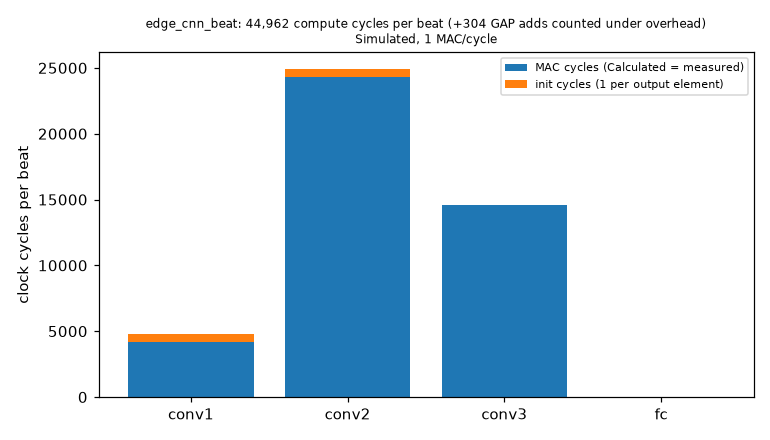
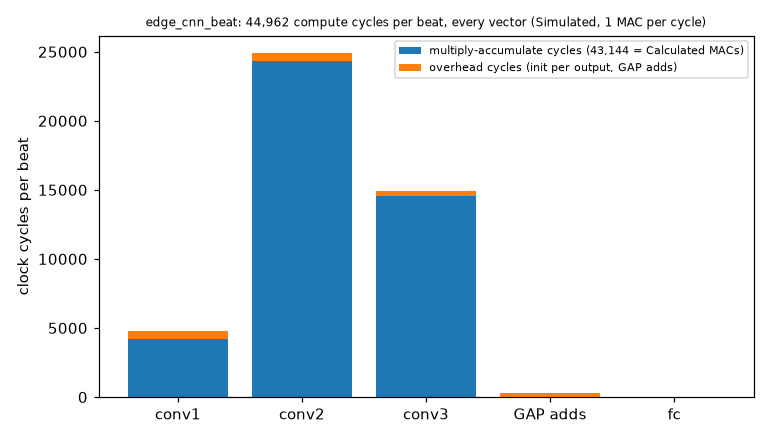
Chore: freeze C5 PTB-XL recipe before training; add C6 pre-window result (round 3)

diff --git a/sentry_sim/py/c6_prelead.py b/sentry_sim/py/c6_prelead.py
@@ -1,0 +1,44 @@
+"""C6: 'an hour before' weak hypothesis test on EDB, frozen fold models, no retraining.  Replayed, HYPOTHESIS ONLY - never a lead-time or prediction claim.
+Pre-window beats: onset-60 min .. onset-15 min of each ST episode, kept only if no other ST/T episode overlaps [onset-60 min, onset].  Comparison: ordinary negatives (label 0)
+of the same test patients that are not in any pre-window.  Statistic = mean over the 5 test folds of per-fold AUROC; subject bootstrap 2000.  -> results/c6_prelead.csv"""
+import os, sys, json
+import numpy as np, pandas as pd
+sys.path.insert(0, os.path.dirname(__file__))
+import c1_lib as C
+META = json.load(open("data/edge/edb_meta.json")); RECS = C.records()
+METHODS = ["R0", "R1", "M1", "M2_s0", "M2_s1", "M2_s2"]
+
+def wauc(sc_pos, w_pos, sc_neg, w_neg):
+    o = np.argsort(sc_neg); sn = sc_neg[o]; cw = np.concatenate([[0], np.cumsum(w_neg[o])]); lo = np.searchsorted(sn, sc_pos, "left"); hi = np.searchsorted(sn, sc_pos, "right")
+    below = cw[lo] + 0.5 * (cw[hi] - cw[lo]); den = w_pos.sum() * w_neg.sum()
+    return (w_pos * below).sum() / den if den > 0 else np.nan
+
+if __name__ == "__main__":
+    S = [dict(np.load(f"data/edge/c2_scores_fold{k}.npz")) for k in range(5)]; pre = []; 
+    subs = sorted({META[r]["subject"] for r in RECS}); sidx = {s: i for i, s in enumerate(subs)}
+    data = []; nep = 0
+    for k, d in enumerate(S):
+        pm = np.zeros(len(d["t"]), bool)
+        for ri in np.unique(d["rec"]):
+            mt = META[RECS[ri]]; allep = [(s, e) for s, e, _ in mt["st"] + mt["tw"]]; sel = d["rec"] == ri
+            for s, e, _ in mt["st"]:
+                if any((e2 >= s - 3600 and s2 <= s and (s2, e2) != (s, e)) for s2, e2 in allep): continue
+                nep += 1; pm |= sel & (d["t"] >= s - 3600) & (d["t"] < s - 900)
+        pm &= d["ok"]; neg = d["ok"] & (d["label"] == 0) & ~pm
+        sid = np.array([sidx[META[RECS[r]]["subject"]] for r in d["rec"]]); data.append((pm, neg, sid, d))
+    npre = sum(int(p.sum()) for p, _, _, _ in data); nneg = sum(int(n.sum()) for _, n, _, _ in data)
+    rng = np.random.default_rng(7); rows = []; B = 2000; W = [rng.multinomial(len(subs), np.ones(len(subs)) / len(subs), size=1)[0] for _ in range(0)]
+    ws = [np.bincount(rng.integers(0, len(subs), len(subs)), minlength=len(subs)).astype(float) for _ in range(B)]
+    for m in METHODS:
+        pt = []; 
+        for pm, neg, sid, d in data:
+            if pm.sum() and neg.sum(): pt.append(wauc(d[m][pm], np.ones(pm.sum()), d[m][neg], np.ones(neg.sum())))
+        bs = []
+        for w in ws:
+            a = []
+            for pm, neg, sid, d in data:
+                if pm.sum() and neg.sum(): a.append(wauc(d[m][pm], w[sid[pm]], d[m][neg], w[sid[neg]]))
+            bs.append(np.nanmean(a))
+        rows.append(dict(method=m, mean_fold_AUROC=float(np.mean(pt)), lo=float(np.nanpercentile(bs, 2.5)), hi=float(np.nanpercentile(bs, 97.5)), per_fold=";".join(f"{x:.3f}" for x in pt),
+                         episodes_used=nep, pre_beats=npre, ordinary_negative_beats=nneg, includes_0p5=bool(np.nanpercentile(bs, 2.5) <= 0.5 <= np.nanpercentile(bs, 97.5)), label="Replayed, hypothesis only"))
+    df = pd.DataFrame(rows); df.to_csv("results/c6_prelead.csv", index=False); print(df.round(3).to_string())

diff --git a/sentry_sim/py/c5_windows.py b/sentry_sim/py/c5_windows.py
@@ -1,0 +1,31 @@
+"""C5: PTB-XL median-beat int8 windows (leads I, II, V2, V5), same window/pre-processing as C1.  Replayed.  python py/c5_windows.py -> data/edge/ptbxl_windows.npz
+10-second resting diagnostic 12-lead ECGs: not early warning, not a wearable, not a sternal lead.  Causal 0.5 Hz high-pass (as C1) instead of A3's zero-phase filter (logged)."""
+import os, sys
+import numpy as np, pandas as pd
+sys.path.insert(0, os.path.dirname(__file__))
+LEADS = {"I": 0, "II": 1, "V2": 7, "V5": 10}
+
+def one(a):
+    ecg_id, fn = a
+    import wfdb; from fractions import Fraction
+    from scipy.signal import resample_poly, butter, sosfilt, sosfilt_zi
+    import beat_model as B, c1_lib as C
+    rec = wfdb.rdrecord(f"real_data/ptbxl/{fn}"); out = np.zeros((4, 75), np.int8); valid = np.zeros(4, bool); sos = butter(1, 0.5, "highpass", fs=250.0, output="sos")
+    for li, (nm, k) in enumerate(LEADS.items()):
+        x = rec.p_signal[:, k]
+        if np.isnan(x).any(): continue
+        y = resample_poly(x * 1000.0, 5, 2); y = sosfilt(sos, y, zi=sosfilt_zi(sos) * y[0])[0]; codes = np.clip(np.round(y * 16.0), -32768, 32767).astype(np.int64)
+        det = B.detect(codes); R = [int(max(d - 15, 0) + np.argmax(np.abs(codes[max(d - 15, 0): d + 16]))) for d in det]
+        segs = [codes[r - 50: r + 100] for r in R if 50 <= r <= len(codes) - 100]
+        if len(segs) < 3: continue
+        med = np.round(np.median(np.stack(segs), axis=0)).astype(np.int64); out[li] = C.make_window(med); valid[li] = True
+    return ecg_id, out, valid
+
+if __name__ == "__main__":
+    from multiprocessing import Pool
+    import a3_ptbxl as A
+    db = A.labels()
+    with Pool(max(1, os.cpu_count() - 2)) as p: res = p.map(one, list(zip(db.index, db.filename_lr)), chunksize=50)
+    ids = np.array([r[0] for r in res]); win = np.stack([r[1] for r in res]); valid = np.stack([r[2] for r in res])
+    d = db.loc[ids]; np.savez_compressed("data/edge/ptbxl_windows.npz", ecg_id=ids, win=win, valid=valid, label=d.label.values.astype(np.int8), fold=d.strat_fold.values.astype(np.int8), patient=d.patient_id.values.astype(np.int64))
+    print(len(ids), "records; valid per lead", valid.sum(0), "MI", int(d.label.sum()), "NORM", int((d.label == 0).sum()))
